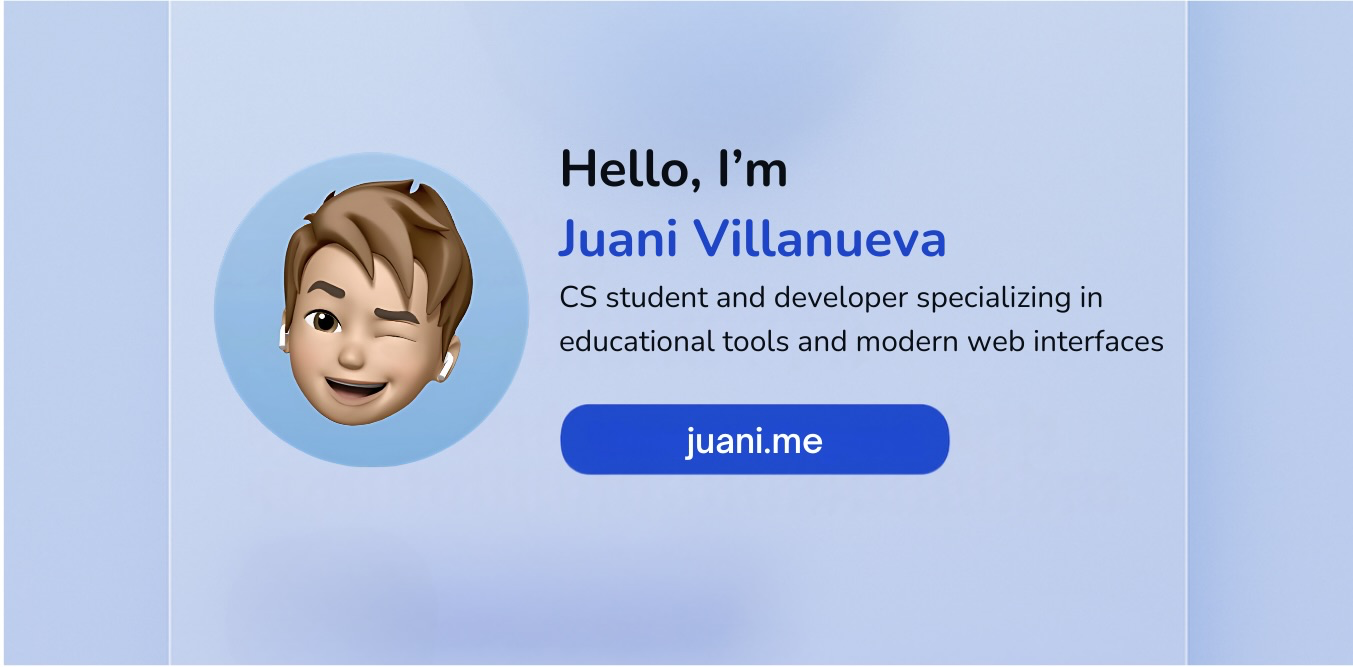
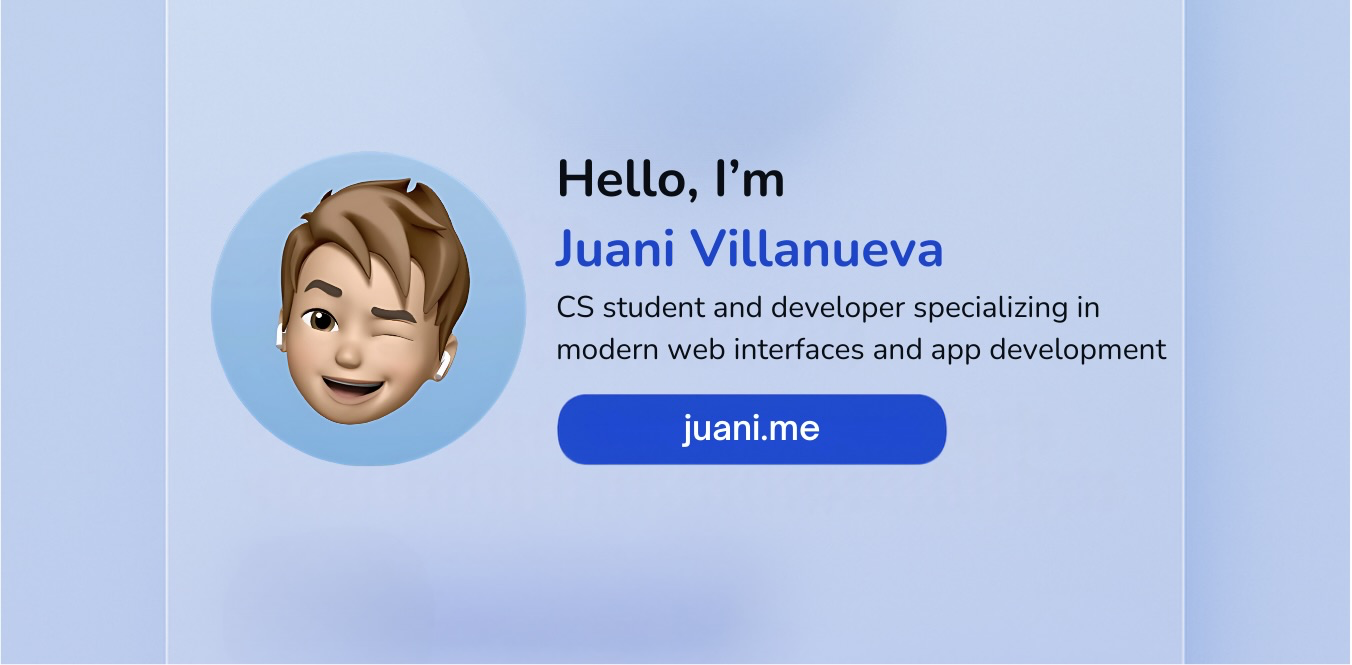
change og image

diff --git a/index.html b/index.html
@@ -13,8 +13,8 @@
   <meta property="og:type" content="website">
   <meta property="og:url" content="https://juani.me">
   <meta property="og:image" content="https://juani.me/assets/og-image.png">
-  <meta property="og:image:width" content="1353">
-  <meta property="og:image:height" content="667">
+  <meta property="og:image:width" content="1352">
+  <meta property="og:image:height" content="665">
   <meta name="twitter:card" content="summary_large_image">
   <meta name="twitter:image" content="https://juani.me/assets/og-image.png">
   <link rel="canonical" href="https://juani.me">
